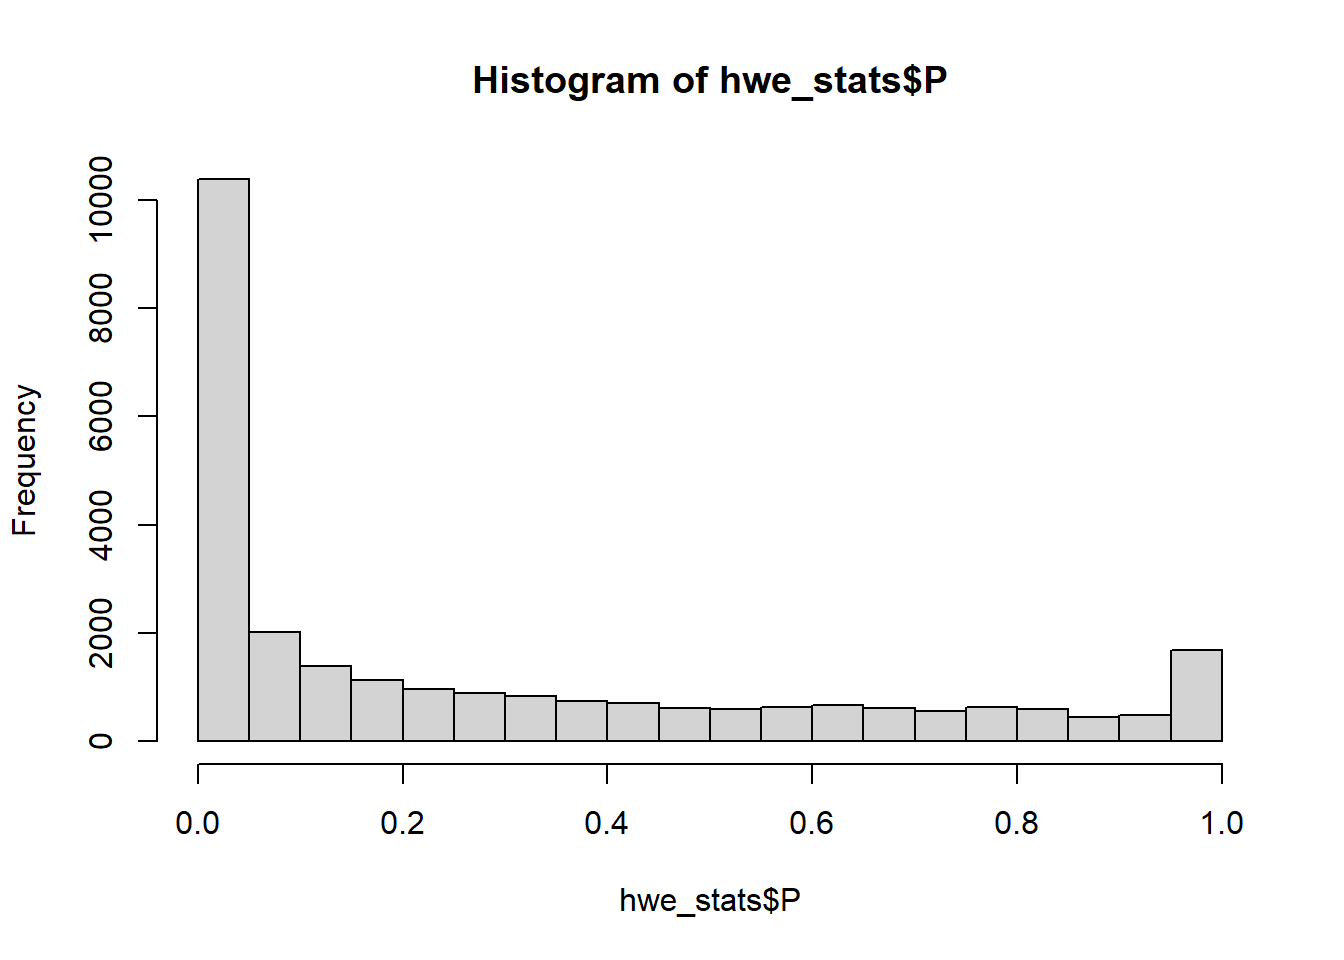
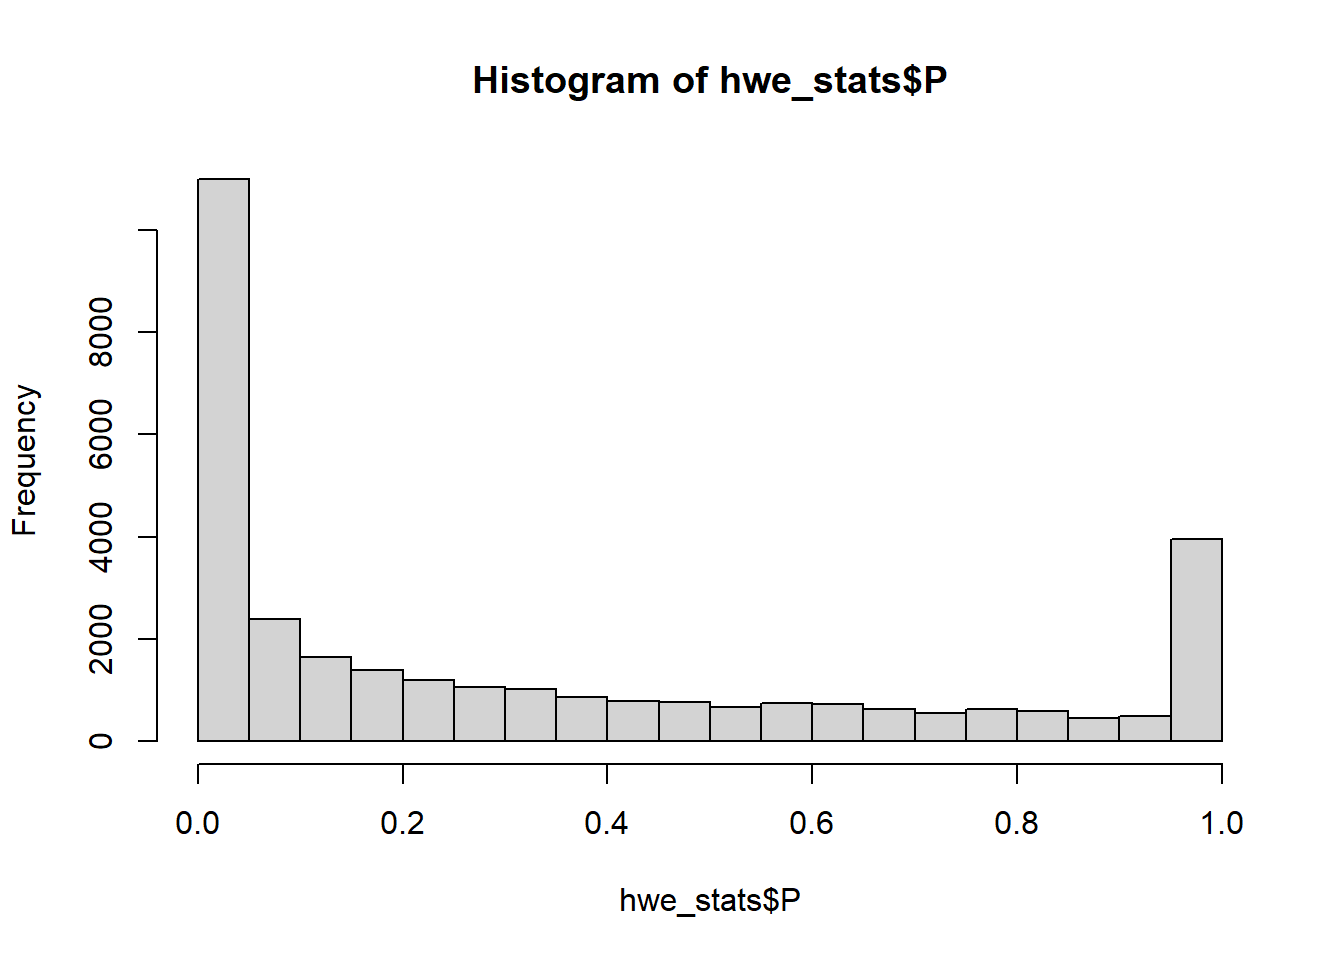
Build site.

diff --git a/docs/hwe_filtering.html b/docs/hwe_filtering.html
@@ -11,7 +11,7 @@
 
 <meta name="author" content="Daniel Araujo" />
 
-<meta name="date" content="2020-11-23" />
+<meta name="date" content="2020-11-30" />
 
 <title>HWE filtering</title>
 
@@ -388,7 +388,7 @@ div.tocify {
 
 <h1 class="title toc-ignore">HWE filtering</h1>
 <h4 class="author">Daniel Araujo</h4>
-<h4 class="date">2020-11-23</h4>
+<h4 class="date">2020-11-30</h4>
 
 </div>
 
@@ -413,7 +413,7 @@ div.tocify {
 <div class="tab-content">
 <div id="summary" class="tab-pane fade in active">
 <p>
-<strong>Last updated:</strong> 2020-11-23
+<strong>Last updated:</strong> 2020-11-30
 </p>
 <p>
 <strong>Checks:</strong> <span class="glyphicon glyphicon-ok text-success" aria-hidden="true"></span> 7 <span class="glyphicon glyphicon-exclamation-sign text-danger" aria-hidden="true"></span> 0
@@ -504,16 +504,16 @@ This reproducible <a href="http://rmarkdown.rstudio.com">R Markdown</a> analysis
 <div class="panel panel-default">
 <div class="panel-heading">
 <p class="panel-title">
-<a data-toggle="collapse" data-parent="#workflowr-checks" href="#strongRepositoryversionstrongahrefhttpsgithubcomdanielsarjChrXYMProjecttree0b0b3e79bb9903200207ce9bd58f2e95e441932ftargetblank0b0b3e7a"> <span class="glyphicon glyphicon-ok text-success" aria-hidden="true"></span> <strong>Repository version:</strong> <a href="https://github.com/danielsarj/ChrXYM_Project/tree/0b0b3e79bb9903200207ce9bd58f2e95e441932f" target="_blank">0b0b3e7</a> </a>
+<a data-toggle="collapse" data-parent="#workflowr-checks" href="#strongRepositoryversionstrongahrefhttpsgithubcomdanielsarjChrXYMProjecttree3280be6e4a1724b29146cbe408246fd85744d39ctargetblank3280be6a"> <span class="glyphicon glyphicon-ok text-success" aria-hidden="true"></span> <strong>Repository version:</strong> <a href="https://github.com/danielsarj/ChrXYM_Project/tree/3280be6e4a1724b29146cbe408246fd85744d39c" target="_blank">3280be6</a> </a>
 </p>
 </div>
[2 lines of base64/hex data omitted]
 <div class="panel-body">
 <p>
 Great! You are using Git for version control. Tracking code development and connecting the code version to the results is critical for reproducibility.
 </p>
 <p>
-The results in this page were generated with repository version <a href="https://github.com/danielsarj/ChrXYM_Project/tree/0b0b3e79bb9903200207ce9bd58f2e95e441932f" target="_blank">0b0b3e7</a>. See the <em>Past versions</em> tab to see a history of the changes made to the R Markdown and HTML files.
+The results in this page were generated with repository version <a href="https://github.com/danielsarj/ChrXYM_Project/tree/3280be6e4a1724b29146cbe408246fd85744d39c" target="_blank">3280be6</a>. See the <em>Past versions</em> tab to see a history of the changes made to the R Markdown and HTML files.
 </p>
 <p>
 Note that you need to be careful to ensure that all relevant files for the analysis have been committed to Git prior to generating the results (you can use <code>wflow_publish</code> or <code>wflow_git_commit</code>). workflowr only checks the R Markdown file, but you know if there are other scripts or data files that it depends on. Below is the status of the Git repository when the results were generated:
@@ -567,6 +567,40 @@ Message
 Rmd
 </td>
 <td>
+<a href="https://github.com/danielsarj/ChrXYM_Project/blob/3280be6e4a1724b29146cbe408246fd85744d39c/analysis/hwe_filtering.Rmd" target="_blank">3280be6</a>
+</td>
+<td>
+Daniel Araujo
+</td>
+<td>
+2020-11-30
+</td>
+<td>
+Update HWE
+</td>
+</tr>
+<tr>
+<td>
+html
+</td>
+<td>
+<a href="https://rawcdn.githack.com/danielsarj/ChrXYM_Project/65915b87ad976da7a88c6fb15856a1a08522b525/docs/hwe_filtering.html" target="_blank">65915b8</a>
+</td>
+<td>
+Daniel Araujo
+</td>
+<td>
+2020-11-23
+</td>
+<td>
+Build site.
+</td>
+</tr>
+<tr>
+<td>
+Rmd
+</td>
+<td>
 <a href="https://github.com/danielsarj/ChrXYM_Project/blob/0b0b3e79bb9903200207ce9bd58f2e95e441932f/analysis/hwe_filtering.Rmd" target="_blank">0b0b3e7</a>
 </td>
 <td>
@@ -593,7 +627,7 @@ Add HWE filtering page
 <div id="applying-the-hwe-filter" class="section level2">
 <h2>1. Applying the HWE filter</h2>
 <pre class="r"><code>plink --bfile MESA_missfilt --hwe 0.000001 --make-bed --out MESA_hwefilt</code></pre>
-<p>The <code>--hwe 0.000001</code> flag removes SNPs with p-value below 0.000001. 2955 variants removed due to Hardy-Weinberg exact test (2936 in Xchr and 19 in XYchr). 26605 variants were left.</p>
+<p>The <code>--hwe 0.000001</code> flag removes SNPs with p-value below 0.000001. 2959 variants removed due to Hardy-Weinberg exact test. 31519 variants were left.</p>
 <p>We should only apply the HWE filter in variants found in the Xchr of females and in the pseudoautosomal region (in males and females), however it is not necessary to make any changes in the dataset because PLINK automatically applies the filter only in the correct regions. This information was confirmed by comparing the total number of SNPs in Ychr and Mchr before and after filtering. Additionally, applying the HWE filter with or without using the <code>--filter-females</code> flag results in the same quantity of Xchr variants, suggesting that Xchr-SNPs in males are not filtered out.</p>
 </div>
 <div id="hwe-p-value-distribution" class="section level2">
